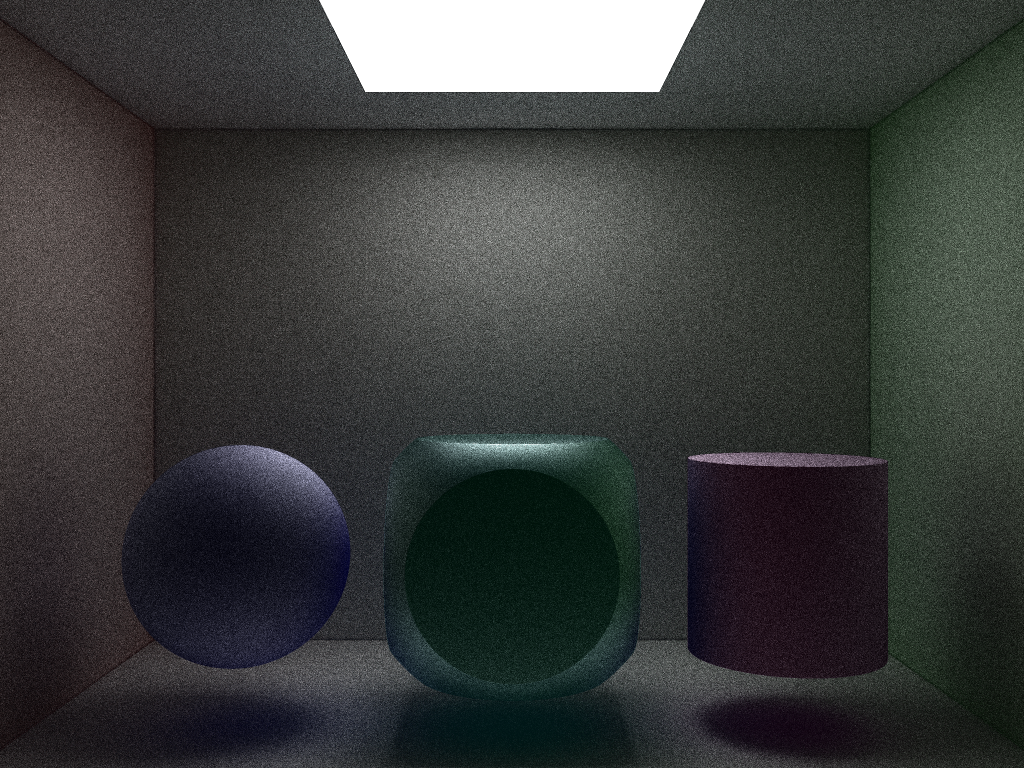
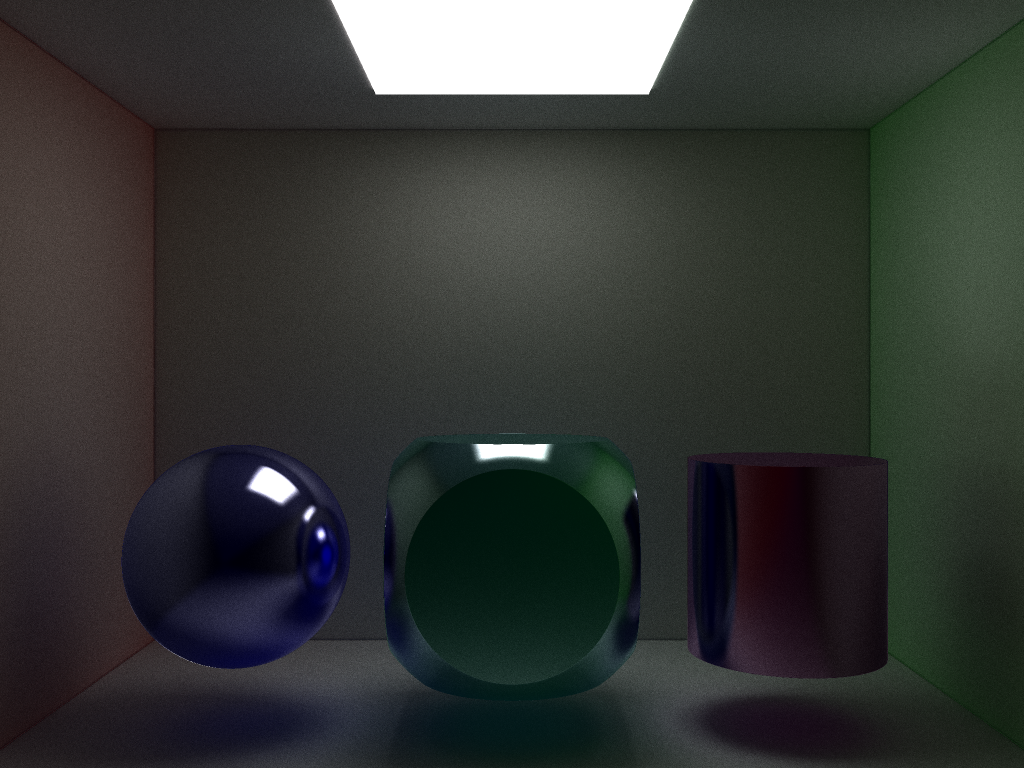
Object::Orientation | WIP

diff --git a/basicObjects.cpp b/basicObjects.cpp
@@ -106,7 +106,7 @@ void Object::SetSpecularity(double specularity)
 	pSpecularity=specularity;
 }
 
-Vec3f Object::Color() const
+const Vec3f &Object::Color() const
 {
 	return(pColor);
 }
@@ -149,7 +149,7 @@ void Object::SetColor(float r, float g, float b)
 	pColor.Z=b;
 }
 
-Vec3d Object::Position() const
+const Vec3d &Object::Position() const
 {
 	return(pPosition);
 }
@@ -166,7 +166,7 @@ void Object::SetPosition(double x, double y, double z)
 	pPosition.Z=z;
 }
 
-Vec3d Object::Orientation() const
+const Vec3d &Object::Orientation() const
 {
 	return(pOrientation);
 }
@@ -330,42 +330,21 @@ Ray::Ray()
 {
 	SetName("Ray");
 	uint64_t prngSeed=(uint64_t)(this);
-	prngSeed+=pPRNG.generate_xorshift();
+	prngSeed+=pPRNG.generate_xorshift_star();
 	pPRNG.set_seed_value(prngSeed);
 	pObjectToIgnore=nullptr;
 }
 
-void Ray::SetDefaultDirection(double x, double y, double z)
+void Ray::SetDefaultOrientation(double x, double y, double z)
 {
-	Vec3d newDefaultDirection(x, y, z);
-	newDefaultDirection.Normalize();
-	pDefaultDirection=newDefaultDirection;
-}
-
-void Ray::SetDirection(const Vec3d *direction)
-{
-	Vec3d newDirection(direction);
-	newDirection.Normalize();
-	pDirection=newDirection;
-}
-
-void Ray::SetDirection(const Vec3d &direction)
-{
-	Vec3d newDirection(direction);
-	newDirection.Normalize();
-	pDirection=newDirection;
-}
-
-void Ray::SetDirection(double x, double y, double z)
-{
-	Vec3d newDirection(x, y, z);
-	newDirection.Normalize();
-	pDirection=newDirection;
+	Vec3d newDefaultOrientation(x, y, z);
+	newDefaultOrientation.Normalize();
+	pDefaultOrientation=newDefaultOrientation;
 }
 
 void Ray::Reset()
 {
-	pDirection=pDefaultDirection;
+	SetOrientation(pDefaultOrientation);
 	SetPosition(0, 0, 0);
 }
 
@@ -401,14 +380,14 @@ void Ray::Run()
 
 		double specularity=Obstacle->Specularity();
 
-		reflectionVec=pDirection - (SurfaceNormalVec*2.0) * pDirection.Dot(SurfaceNormalVec);
+		reflectionVec=pOrientation - (SurfaceNormalVec*2.0) * pOrientation.Dot(SurfaceNormalVec);
 		reflectionVec.Normalize(specularity);
 
 		Vec3d diffusionVec=createRandomVector3d();
 		diffusionVec=diffusionVec+SurfaceNormalVec;
 		diffusionVec.Normalize(1.0-specularity);
 
-		SetDirection(reflectionVec + diffusionVec);
+		SetOrientation(reflectionVec + diffusionVec);
 	}
 	pColor=pColor + (colorAcc + illuminationAcc);
 	// pColor=pColor + ColorAcc;
@@ -446,7 +425,7 @@ Object *Ray::RunOnce()
 				}
 			}
 		}
-		pPosition=pPosition+pDirection*mindist;
+		pPosition=pPosition+pOrientation*mindist;
 		stepsDone++;
 	}
 	return(prettyCloseObject);

diff --git a/scene.cpp b/scene.cpp
@@ -3,7 +3,7 @@
 
 Scene::Scene()
 {
-	int X, Y;
+	int64_t X, Y;
 	Ray *newRay;
 
 	SceneObjects=new vector <Object *>;
@@ -26,7 +26,7 @@ Scene::Scene()
 		{
 			newRay=new Ray();
 			newRay->SetID(SceneRays->size());
-			newRay->SetDefaultDirection(X-pScreenWidth/2.0, Y-pScreenHeight/2.0, pScreenWidth);
+			newRay->SetDefaultOrientation(X-pScreenWidth/2.0, Y-pScreenHeight/2.0, pScreenWidth);
 			newRay->SceneObjects=this->SceneObjects;
 			SceneRays->push_back(newRay);
 		}
@@ -117,12 +117,12 @@ void Scene::Render()
 	fprintf(stdout, "FrameRenderTime: %li ms\n", FrameRenderTime.count());
 }
 
-uint64_t Scene::ScreenWidth()
+int64_t Scene::ScreenWidth()
 {
 	return(pScreenWidth);
 }
 
-uint64_t Scene::ScreenHeight()
+int64_t Scene::ScreenHeight()
 {
 	return(pScreenHeight);
 }
@@ -132,12 +132,12 @@ uint64_t Scene::RenderThreadsNum()
 	return(pRenderThreads);
 }
 
-void Scene::SetScreenWidth(uint64_t width)
+void Scene::SetScreenWidth(int64_t width)
 {
 	SetScreenSize(width, pScreenHeight);
 }
 
-void Scene::SetScreenHeight(uint64_t height)
+void Scene::SetScreenHeight(int64_t height)
 {
 	SetScreenSize(pScreenWidth, height);
 }
@@ -152,7 +152,7 @@ void Scene::SetNumOfRayRunsPerPixel(uint64_t ray_runs_per_pixel)
 	pRayRunsPerPixel=ray_runs_per_pixel;
 }
 
-void Scene::SetScreenSize(uint64_t width, uint64_t height)
+void Scene::SetScreenSize(int64_t width, int64_t height)
 {
 	pScreenWidth=width;
 	pScreenHeight=height;

diff --git a/basicObjects.hpp b/basicObjects.hpp
@@ -39,15 +39,15 @@ public:
 	double Specularity();
 	void SetSpecularity(double specularity);
 
-	Vec3f Color() const;
+	const Vec3f &Color() const;
 	void SetColor(Vec3f color);
 	void SetColor(float r, float g, float b);
 
-	Vec3d Position() const;
+	const Vec3d &Position() const;
 	void SetPosition(Vec3d position);
 	void SetPosition(double x, double y, double z);
 
-	Vec3d Orientation() const;
+	const Vec3d &Orientation() const;
 	void SetOrientation(const Vec3d *orientation);
 	void SetOrientation(const Vec3d &orientation);
 	void SetOrientation(double x, double y, double z);
@@ -87,8 +87,7 @@ public:
 
 class Ray : public Object
 {
-	Vec3d pDefaultDirection;
-	Vec3d pDirection;
+	Vec3d pDefaultOrientation;
 	Object *pObjectToIgnore;
 	prng_u64 pPRNG;
 	Vec3d createRandomVector3d();
@@ -98,10 +97,7 @@ public:
 	static constexpr double RAY_PROXIMITY_DISTANCE = 1.0/8.0;
 	static constexpr double RAY_COLLISION_DISTANCE = 1.0/16.0;
 	Ray();
-	void SetDefaultDirection(double x, double y, double z);
-	void SetDirection(const Vec3d *direction);
-	void SetDirection(const Vec3d &direction);
-	void SetDirection(double x, double y, double z);
+	void SetDefaultOrientation(double x, double y, double z);
 	void Reset();
 	void Run();
 	Object *RunOnce();

diff --git a/commonVectorFun.hpp b/commonVectorFun.hpp
@@ -22,7 +22,7 @@ public:
 	double Cross(const Vec2d &other) const;
 	Vec2d Max(const Vec2d &other) const;
 	Vec2d operator=(const Vec2d &other);
-	Vec2d operator+(const Vec2d &other);
+	Vec2d operator+(const Vec2d &other) const;
 	void operator+=(const Vec2d &other);
 	Vec2d operator-(const Vec2d &other) const;
 	Vec2d operator-() const;
@@ -51,7 +51,7 @@ public:
 	Vec3d Cross(const Vec3d &other) const;
 	Vec3d Max(const Vec3d &other) const;
 	Vec3d operator=(const Vec3d &other);
-	Vec3d operator+(const Vec3d &other);
+	Vec3d operator+(const Vec3d &other) const;
 	void operator+=(const Vec3d &other);
 	Vec3d operator-(const Vec3d &other) const;
 	Vec3d operator-() const;
@@ -80,7 +80,7 @@ public:
 	Vec3f Cross(const Vec3f &other) const;
 	Vec3f Max(const Vec3f &other) const;
 	Vec3f operator=(const Vec3f &other);
-	Vec3f operator+(const Vec3f &other);
+	Vec3f operator+(const Vec3f &other) const;
 	void operator+=(const Vec3f &other);
 	Vec3f operator-(const Vec3f &other) const;
 	Vec3f operator-() const;

diff --git a/commonVectorFun.cpp b/commonVectorFun.cpp
@@ -81,11 +81,9 @@ Vec2d Vec2d::operator=(const Vec2d &other)
 	return(*this);
 }
 
-Vec2d Vec2d::operator+(const Vec2d &other)
+Vec2d Vec2d::operator+(const Vec2d &other) const
 {
-	Vec2d res(this);
-	res.X+=other.X;
-	res.Y+=other.Y;
+	Vec2d res(this->X+other.X, this->Y+other.Y);
 	return(res);
 }
 
@@ -218,12 +216,9 @@ Vec3d Vec3d::operator=(const Vec3d &other)
 	return(*this);
 }
 
-Vec3d Vec3d::operator+(const Vec3d &other)
+Vec3d Vec3d::operator+(const Vec3d &other) const
 {
-	Vec3d res(this);
-	res.X+=other.X;
-	res.Y+=other.Y;
-	res.Z+=other.Z;
+	Vec3d res(this->X+other.X, this->Y+other.Y, this->Z+other.Z);
 	return(res);
 }
 
@@ -358,12 +353,9 @@ Vec3f Vec3f::operator=(const Vec3f &other)
 	return(*this);
 }
 
-Vec3f Vec3f::operator+(const Vec3f &other)
+Vec3f Vec3f::operator+(const Vec3f &other) const
 {
-	Vec3f res(this);
-	res.X+=other.X;
-	res.Y+=other.Y;
-	res.Z+=other.Z;
+	Vec3f res(this->X+other.X, this->Y+other.Y, this->Z+other.Z);
 	return(res);
 }
 

diff --git a/scene.hpp b/scene.hpp
@@ -14,7 +14,7 @@ using namespace std;
 class Scene
 {
 	vector <Ray *> *SceneRays;
-	uint64_t pScreenWidth, pScreenHeight;
+	int64_t pScreenWidth, pScreenHeight;
 	uint64_t pRenderThreads;
 	uint64_t pRayRunsPerPixel;
 public:
@@ -25,14 +25,14 @@ public:
 	chrono::milliseconds FrameRenderTime;
 	void AddObject(Object *object);
 	void Render();
-	uint64_t ScreenWidth();
-	uint64_t ScreenHeight();
+	int64_t ScreenWidth();
+	int64_t ScreenHeight();
 	uint64_t RenderThreadsNum();
-	void SetScreenWidth(uint64_t width);
-	void SetScreenHeight(uint64_t height);
+	void SetScreenWidth(int64_t width);
+	void SetScreenHeight(int64_t height);
 	void SetNumOfRenderThreads(uint64_t render_threads);
 	void SetNumOfRayRunsPerPixel(uint64_t ray_runs_per_pixel);
-	void SetScreenSize(uint64_t width, uint64_t height);
+	void SetScreenSize(int64_t width, int64_t height);
 };
 
 #endif // SCENE_HPP

diff --git a/main.cpp b/main.cpp
@@ -158,9 +158,9 @@ int main(int argc, char *argv[])
 		Sphere2->SetSpecularity(spec);
 		Sphere3->SetSpecularity(spec);
 		Cylinder1->SetSpecularity(spec);
-		//Cylinder1->SetOrientation(0, std::sin(i*0.07853975), std::cos(i*0.07853975));
+		Cylinder1->SetOrientation(0, std::sin(i*0.07853975), std::cos(i*0.07853975));
 		// Cube2->SetOrientation(std::sin(i*0.07853975), 0, std::cos(i*0.07853975));
-		//Torus1->SetOrientation(0, std::sin(i*0.07853975), std::cos(i*0.07853975));
+		// Torus1->SetOrientation(0, std::sin(i*0.07853975), std::cos(i*0.07853975));
 
 		NewScene->SetNumOfRayRunsPerPixel(rays_per_pixel);
 		NewScene->Render();
